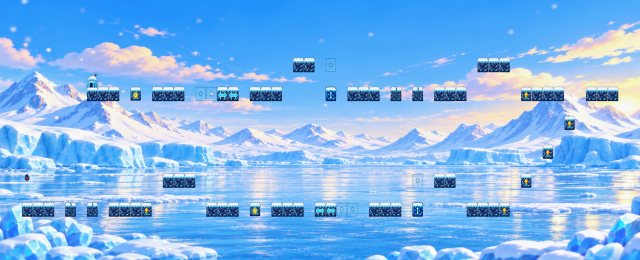
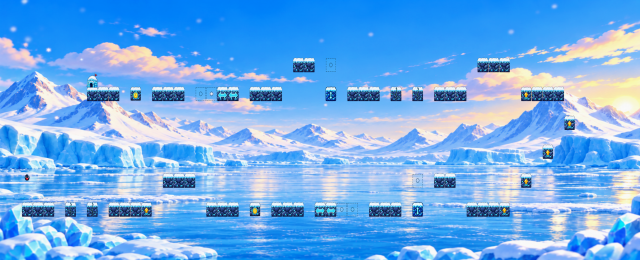
Remove three upper-right platforms from RL map 1

diff --git a/tests/test_rl_map1_layout.py b/tests/test_rl_map1_layout.py
@@ -1,0 +1,48 @@
+"""강화학습 맵1의 오른쪽 위 발판 세 개 삭제와 나머지 맵 보존을 검사한다."""
+import unittest
+
+from pingu_ball.engine import World
+from pingu_ball.playfield import expand_playfield
+from pingu_ball.rl_maps import make_rl_level, rl_map_layouts
+
+
+class RLMap1LayoutTests(unittest.TestCase):
+    def test_only_map1_has_the_three_upper_right_tiles_removed(self):
+        removed = {f'turn0landing-{i}' for i in range(3)}
+        maps = rl_map_layouts()
+        first = maps[0]
+        self.assertEqual(len(first['platforms']), 52)
+        self.assertTrue(removed.isdisjoint(p['id'] for p in first['platforms']))
+        self.assertEqual((first['width'], first['height']), (3776, 1152))
+        self.assertEqual(first['spawn'], [160.0, 786.0])
+        self.assertEqual(first['goal'], [512.0, 320, 64, 64])
+        for data in maps[1:]:
+            with self.subTest(map=data['number']):
+                self.assertTrue(removed.issubset(p['id'] for p in data['platforms']))
+
+    def test_left_buffer_and_jump_staircase_are_preserved(self):
+        level = make_rl_level(1)
+        lookup = {p.id: p for p in level.platforms}
+        for i in range(3):
+            p = lookup[f'turn0buffer-{i}']
+            self.assertEqual((p.x, p.y, p.w, p.h, p.kind), (3136+i*64, 384, 64, 64, 'normal'))
+        for i in range(4):
+            self.assertEqual(lookup[f'turn0-spring{i}-0'].kind, 'spring')
+        self.assertEqual(len(level.specials), 12)
+        self.assertEqual({d.type_id for d in level.specials}, {301, 302, 501, 508})
+
+    def test_removed_region_has_no_remaining_collision(self):
+        world = World(expand_playfield(make_rl_level(1)), auto_reset=False)
+        world.ball.x, world.ball.y = 3552., 340.
+        world.ball.vx = world.ball.vy = 0.
+        landings = []
+        for _ in range(60):
+            world.step(0)
+            landings.extend(value for event, value in world.events if event == 'land')
+        self.assertGreater(world.ball.y, 448.)
+        self.assertFalse(landings)
+        self.assertFalse(world.failed)
+
+
+if __name__ == '__main__':
+    unittest.main()

diff --git a/assets/rl_maps/README.md b/assets/rl_maps/README.md
@@ -3,7 +3,9 @@
 승인된 `output/rl_transfer_2to3_maps_20261031/layouts.json`에서 맵 배치를 가져왔다.
 이후 요청에 따라 이 10개 맵의 이동 블록 속도를 일반 스테이지와 동일하게 맞췄다.
 현재 좌우 속도는 96px/s, 상하 속도는 64px/s다.
-이동 거리·시작 위상·블록 크기·타일 배치는 유지한다.
+이동 속도 조정에서는 이동 거리·시작 위상·블록 크기·타일 배치를 유지했다.
+맵1은 이후 요청에 따라 2층 맨 오른쪽 일반 발판 `turn0landing-0~2` 세 개를 제거했다.
+왼쪽 연결 발판과 점프 계단, 나머지 9개 맵의 배치는 유지한다.
 각 코스는 2~3층으로 구성되며 파괴·점프·좌우 이동·상하 이동·시간 블록을 포함한다.
 생선·생선뼈·별·아이템은 없고 제한 시간은 180초다. 기존 게임 물리 설정을 사용한다.
 
